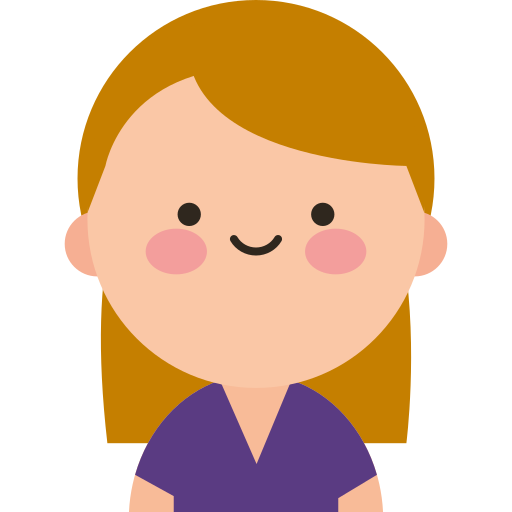
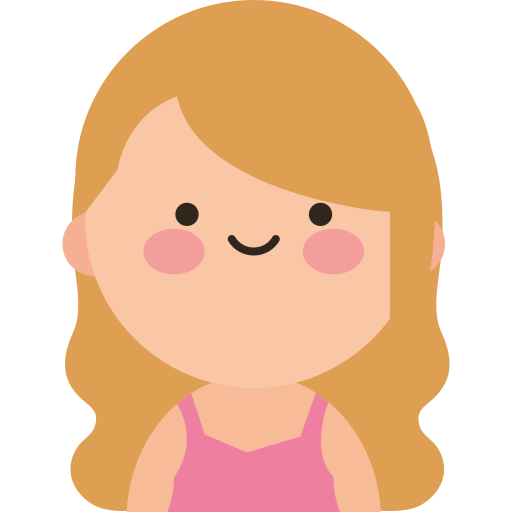
拿掉 Debug的 alert console 和 print (#75)
* 修改avatar 圖片05,06

* 將alert/console.log/print拿掉

diff --git a/wuli/src/main/webapp/landlordRepairForm/landlordRepairForm.js b/wuli/src/main/webapp/landlordRepairForm/landlordRepairForm.js
@@ -375,7 +375,7 @@ function sendForm() {
             }
         },
         error: function (jqXHR, textStatus, errorThrown) {
-            console.log('EditForm with error');
+            //console.log('EditForm with error');
             $("#tips").text("系統異常，請聯繫維運單位");
             $("#tips").attr("style", "color:red;");
         }

diff --git a/home/src/main/java/tw/edu/ntut/sce/java18/tenant/memberInfo/controller/RepairFormServlet.java b/home/src/main/java/tw/edu/ntut/sce/java18/tenant/memberInfo/controller/RepairFormServlet.java
@@ -62,7 +62,7 @@ public class RepairFormServlet extends HttpServlet {
 
         var reparFormListJson = gson.toJson(showPageInfo);
         printWriter.print(reparFormListJson);
-        System.out.println(reparFormListJson);
+        // System.out.println(reparFormListJson);
         printWriter.flush();
         break;
 
@@ -113,11 +113,11 @@ public class RepairFormServlet extends HttpServlet {
         var showNewFrom = Map.of("toRoom", memberId, "formId", repairForm);
         var showNewFromJson = gson.toJson(showNewFrom);
         printWriter.print(showNewFromJson);
-        System.out.println(showNewFromJson);
+        // System.out.println(showNewFromJson);
         printWriter.flush();
         break;
       default:
-        System.out.println("i got u");
+        // System.out.println("i got u");
         break;
     }
   }
@@ -142,19 +142,19 @@ public class RepairFormServlet extends HttpServlet {
     } else {
       job = (String) session.getAttribute("page");
     }
-    System.out.println("jobjob ->" + job);
+    // System.out.println("jobjob ->" + job);
     switch (job) {
       case "deleteRepairForm":
         String deleteFormNumber = request.getParameter("id");
-        System.out.println(deleteFormNumber);
+        // System.out.println(deleteFormNumber);
         try {
           int n = new RepairFormServiceImpl().deleteRepairForm(deleteFormNumber);
           if (n != 1) {
-            System.out.println("n != 1");
+            // System.out.println("n != 1");
             errorMsgs.put("saveErr", "系統儲存資料異常");
           }
         } catch (Exception e) {
-          System.out.println("n !!!= 1");
+          // System.out.println("n !!!= 1");
           e.printStackTrace();
         }
 
@@ -205,7 +205,7 @@ public class RepairFormServlet extends HttpServlet {
             int num =
                 new RepairFormServiceImpl()
                     .checkRepairFormAmount(member.getuId(), dateNow, dateNow);
-            System.out.println("dateNow" + dateNow);
+            // System.out.println("dateNow" + dateNow);
             formNumber = roomNumber + dateNow + "A" + (num + 1);
             session.setAttribute("formNumber", formNumber);
 
@@ -254,9 +254,9 @@ public class RepairFormServlet extends HttpServlet {
         }
 
         // 判斷project不得為空
-        System.out.println("project" + project);
+        // System.out.println("project" + project);
         int projectId = new FurniturePriceServiceImpl().getFurnitureIdByName(project);
-        System.out.println("projectId" + projectId);
+        // System.out.println("projectId" + projectId);
         if (project.equals("0") || projectId == -1) {
           errorMsgs.put("Project", "報修品項輸入錯誤");
           session.setAttribute("Project", project);
@@ -277,7 +277,7 @@ public class RepairFormServlet extends HttpServlet {
           try {
             LocalDateTime localDateTime = LocalDateTime.from(formatDateTime.parse(expectTimeStr));
             timeConvert = Timestamp.valueOf(localDateTime);
-            System.out.println("timeConvert" + timeConvert);
+            // System.out.println("timeConvert" + timeConvert);
             if (timeConvert.after(currentTime)) {
               session.setAttribute("expectTime", expectTime);
             } else {
@@ -296,7 +296,7 @@ public class RepairFormServlet extends HttpServlet {
           String key = (String) it.next();
           /*有了鍵就可以通過map集合的get方法獲取其對應的値 ( key:01, vaule: a  key: 02,vaule: b  key:03, vaule: c)*/
           String value = errorMsgs.get(key);
-          System.out.println("key: " + key + ", vaule: " + value);
+          // System.out.println("key: " + key + ", vaule: " + value);
           errList.add(key);
           // System.out.println(errList.get(0));
         }
@@ -356,17 +356,17 @@ public class RepairFormServlet extends HttpServlet {
               editBean.setApplicant(applicant);
               editBean.setPhone(myPhone);
               editBean.setExpectionTime(timeConvert);
-              System.out.println("timeConvert->" + timeConvert);
+              // System.out.println("timeConvert->" + timeConvert);
               editBean.setProject(projectId);
               editBean.setNote(note);
               try {
                 int n = new RepairFormServiceImpl().updateRepairForm(editBean);
                 if (n != 1) {
-                  System.out.println("n != 1");
+                  // System.out.println("n != 1");
                   errorMsgs.put("saveErr", "系統儲存資料異常");
                 }
               } catch (Exception e) {
-                System.out.println("n !!!= 1");
+                // System.out.println("n !!!= 1");
                 e.printStackTrace();
               }
               session.setAttribute("FormInvalid", "OK");

diff --git a/common/src/main/java/tw/edu/ntut/sce/java18/common/service/impl/MemberInfoServiceImpl.java b/common/src/main/java/tw/edu/ntut/sce/java18/common/service/impl/MemberInfoServiceImpl.java
@@ -219,7 +219,7 @@ public class MemberInfoServiceImpl implements MemberInfoService {
                 + characterList.get(i)
                 + "</label> </div>";
       }
-      System.out.println("無");
+      // System.out.println("無");
     } else {
       List<String> characterTabsList = Arrays.asList(characterTabs.split("、"));
       for (int i = 0; i < characterList.size(); i++) {
@@ -281,7 +281,7 @@ public class MemberInfoServiceImpl implements MemberInfoService {
                 + favorList.get(i)
                 + "</label> </div>";
       }
-      System.out.println("無");
+      // System.out.println("無");
     } else {
 
       List<String> favorTabsList = Arrays.asList(favorTabs.split("、"));
@@ -503,7 +503,7 @@ public class MemberInfoServiceImpl implements MemberInfoService {
                 + characterList.get(i)
                 + "</label> </div>";
       }
-      System.out.println("無");
+      // System.out.println("無");
     } else {
       List<String> characterTabsList = Arrays.asList(characterTabs.split("、"));
       for (int i = 0; i < characterList.size(); i++) {
@@ -564,7 +564,7 @@ public class MemberInfoServiceImpl implements MemberInfoService {
                 + favorList.get(i)
                 + "</label> </div>";
       }
-      System.out.println("無");
+      // System.out.println("無");
     } else {
       List<String> favorTabsList = Arrays.asList(favorTabs.split("、"));
       for (int i = 0; i < favorList.size(); i++) {

diff --git a/home/src/main/java/tw/edu/ntut/sce/java18/tenant/memberInfo/controller/MemberRefundAccountInfoUpdate.java b/home/src/main/java/tw/edu/ntut/sce/java18/tenant/memberInfo/controller/MemberRefundAccountInfoUpdate.java
@@ -71,9 +71,9 @@ public class MemberRefundAccountInfoUpdate extends HttpServlet {
           partList.add(fldName);
         }
 
-        for (int i = 0; i < partList.size(); i++) {
-          System.out.println("表單名稱:" + partList.get(i));
-        }
+        // for (int i = 0; i < partList.size(); i++) {
+        // System.out.println("表單名稱:" + partList.get(i));
+        // }
 
         for (Part p : parts) {
           String fldName = p.getName();
@@ -121,7 +121,7 @@ public class MemberRefundAccountInfoUpdate extends HttpServlet {
               refundAccount.setBankAccount(bankAccount);
 
               boolean isNumeric = bankAccount.matches("[0-9]*");
-              System.out.println(isNumeric);
+              // System.out.println(isNumeric);
               if (bankAccount == null || bankAccount.trim().length() == 0) {
                 errorMsgs.put("errBankAccount", "必須輸入銀行帳戶");
               } else if (isNumeric == false) {
@@ -159,7 +159,7 @@ public class MemberRefundAccountInfoUpdate extends HttpServlet {
       } else {
         session.setAttribute("RefundIsInvalid", false);
         if (refundAccountIsExist == false) {
-          System.out.println("儲存資料");
+          // System.out.println("儲存資料");
           RefundAccountBean newBean = new RefundAccountBean();
           newBean.setMember_id(mb.getuId());
           newBean.setRefundBank(refundAccount.getRefundBank());

diff --git a/home/src/main/java/tw/edu/ntut/sce/java18/tenant/memberInfo/controller/MemberContractInfoUpdate.java b/home/src/main/java/tw/edu/ntut/sce/java18/tenant/memberInfo/controller/MemberContractInfoUpdate.java
@@ -119,7 +119,7 @@ public class MemberContractInfoUpdate extends HttpServlet {
                 genderCode = Integer.parseInt(idNumber.substring(1, 2));
                 if (genderCode != 1 && genderCode != 2) {
                   errMsg = "身分證號性別碼不正確 #outside";
-                  System.out.println("身分證號性別碼 genderCode" + genderCode);
+                  // System.out.println("身分證號性別碼 genderCode" + genderCode);
                 } else {
                   CheckIdNumberFormat checkIdNumberFormate = new CheckIdNumberFormat();
                   errMsg = checkIdNumberFormate.checkIdNumber(idNumber, genderCode);
@@ -222,7 +222,7 @@ public class MemberContractInfoUpdate extends HttpServlet {
       } else {
         session.setAttribute("guarantorIsInvalid", false);
         if (guarantorIsExist == false) {
-          System.out.println("儲存資料");
+          // System.out.println("儲存資料");
           GuarantorBean newBean = new GuarantorBean();
           newBean.setMember_id(mb.getuId());
           newBean.setName(guarantor.getName());

diff --git a/home/src/main/java/tw/edu/ntut/sce/java18/tenant/memberInfo/controller/MemberInfoUpdateServlet.java b/home/src/main/java/tw/edu/ntut/sce/java18/tenant/memberInfo/controller/MemberInfoUpdateServlet.java
@@ -114,8 +114,8 @@ public class MemberInfoUpdateServlet extends HttpServlet {
             && partList.get(i).substring(0, 7).equals("myFavor")) {
           hadFavor = true;
         }
-        System.out.println("hadCharacter:" + hadCharacter);
-        System.out.println("hadFavor:" + hadFavor);
+        // System.out.println("hadCharacter:" + hadCharacter);
+        // System.out.println("hadFavor:" + hadFavor);
         // System.out.println("表單名稱:" + partList.get(i));
       }
     }
@@ -130,7 +130,7 @@ public class MemberInfoUpdateServlet extends HttpServlet {
         // ======判斷頭貼======
         if (fldName.equals("avatarIcon")) {
           avatar = value;
-          System.out.println("myAvata:" + avatar);
+          // System.out.println("myAvata:" + avatar);
           // mb.setAvatar(avatar + ".png");
           if (value == null || avatar.trim().length() == 0) {
             errorMsgs.put("avatarIcon", "必須選擇頭貼");

diff --git a/wuli/src/main/java/tw/edu/ntut/sce/java18/landlord/model/LandlordInfo.java b/wuli/src/main/java/tw/edu/ntut/sce/java18/landlord/model/LandlordInfo.java
@@ -17,26 +17,6 @@ public class LandlordInfo implements Serializable {
 
   public LandlordInfo() {}
 
-  public LandlordInfo(
-      Integer id,
-      String name,
-      String phone,
-      String county,
-      String district,
-      String address,
-      String mail,
-      String stamp) {
-    super();
-    this.id = id;
-    this.name = name;
-    this.phone = phone;
-    this.county = county;
-    this.district = district;
-    this.address = address;
-    this.mail = mail;
-    this.stamp = stamp;
-  }
-
   public static long getSerialversionuid() {
     return serialVersionUID;
   }

diff --git a/common/src/main/java/tw/edu/ntut/sce/java18/common/dao/impl/RefundAccountDaoImpl.java b/common/src/main/java/tw/edu/ntut/sce/java18/common/dao/impl/RefundAccountDaoImpl.java
@@ -162,7 +162,7 @@ public class RefundAccountDaoImpl implements RefundAccountDao {
       ps.setString(4, refundAccountBean.getRefundName());
       ps.setTimestamp(5, refundAccountBean.getUpdate_time());
       ps.setInt(6, refundAccountBean.getMember_id());
-      System.out.println("RefundAccountDaoImpl#updateGuarantorInfo" + refundAccountBean.getId());
+      // System.out.println("RefundAccountDaoImpl#updateGuarantorInfo" + refundAccountBean.getId());
       n = ps.executeUpdate();
 
     } catch (SQLException ex) {
